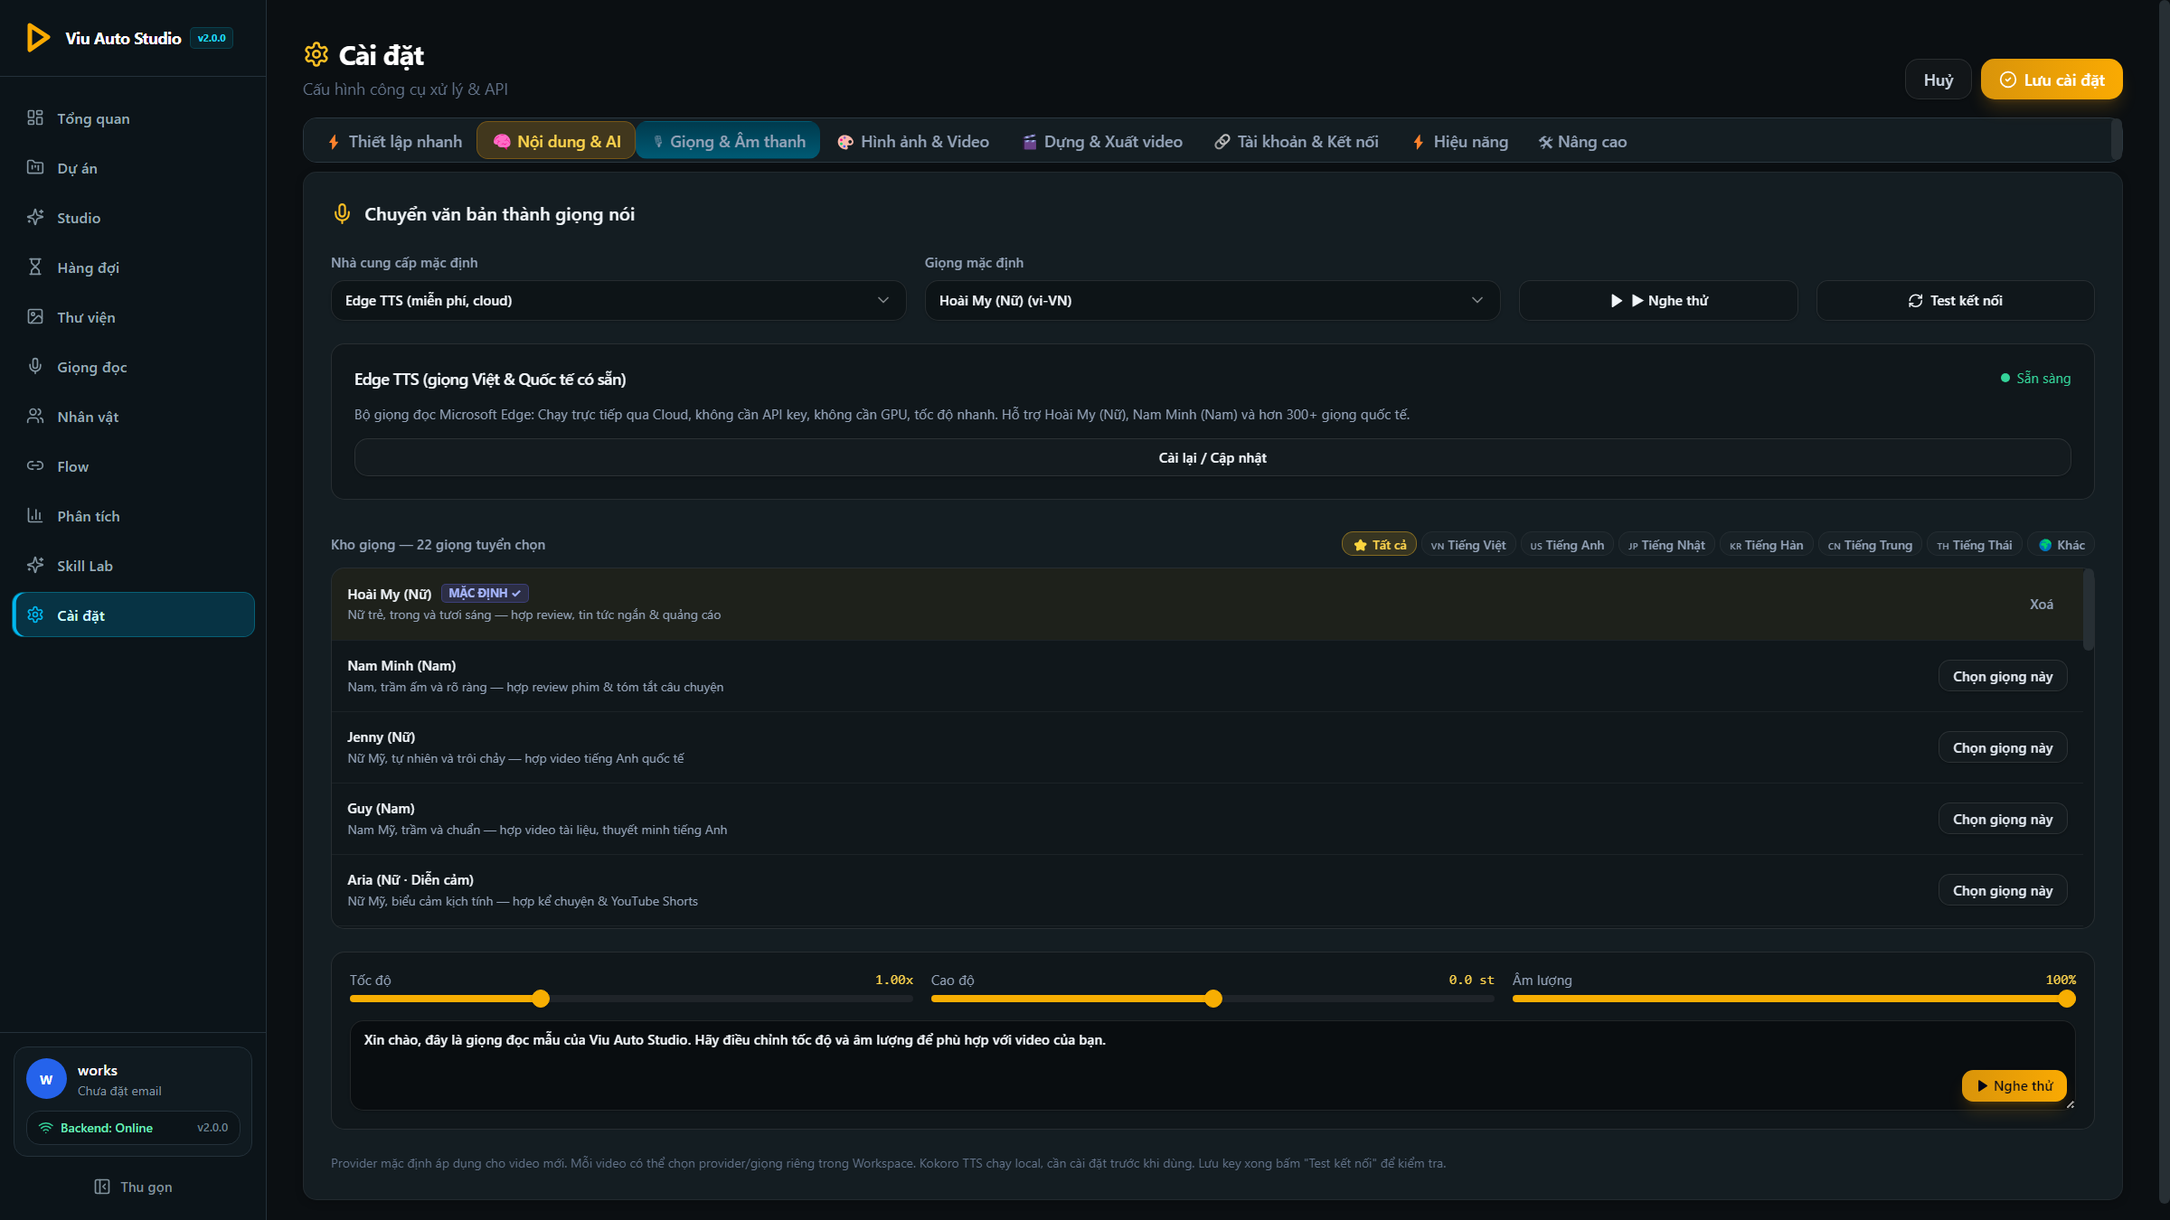
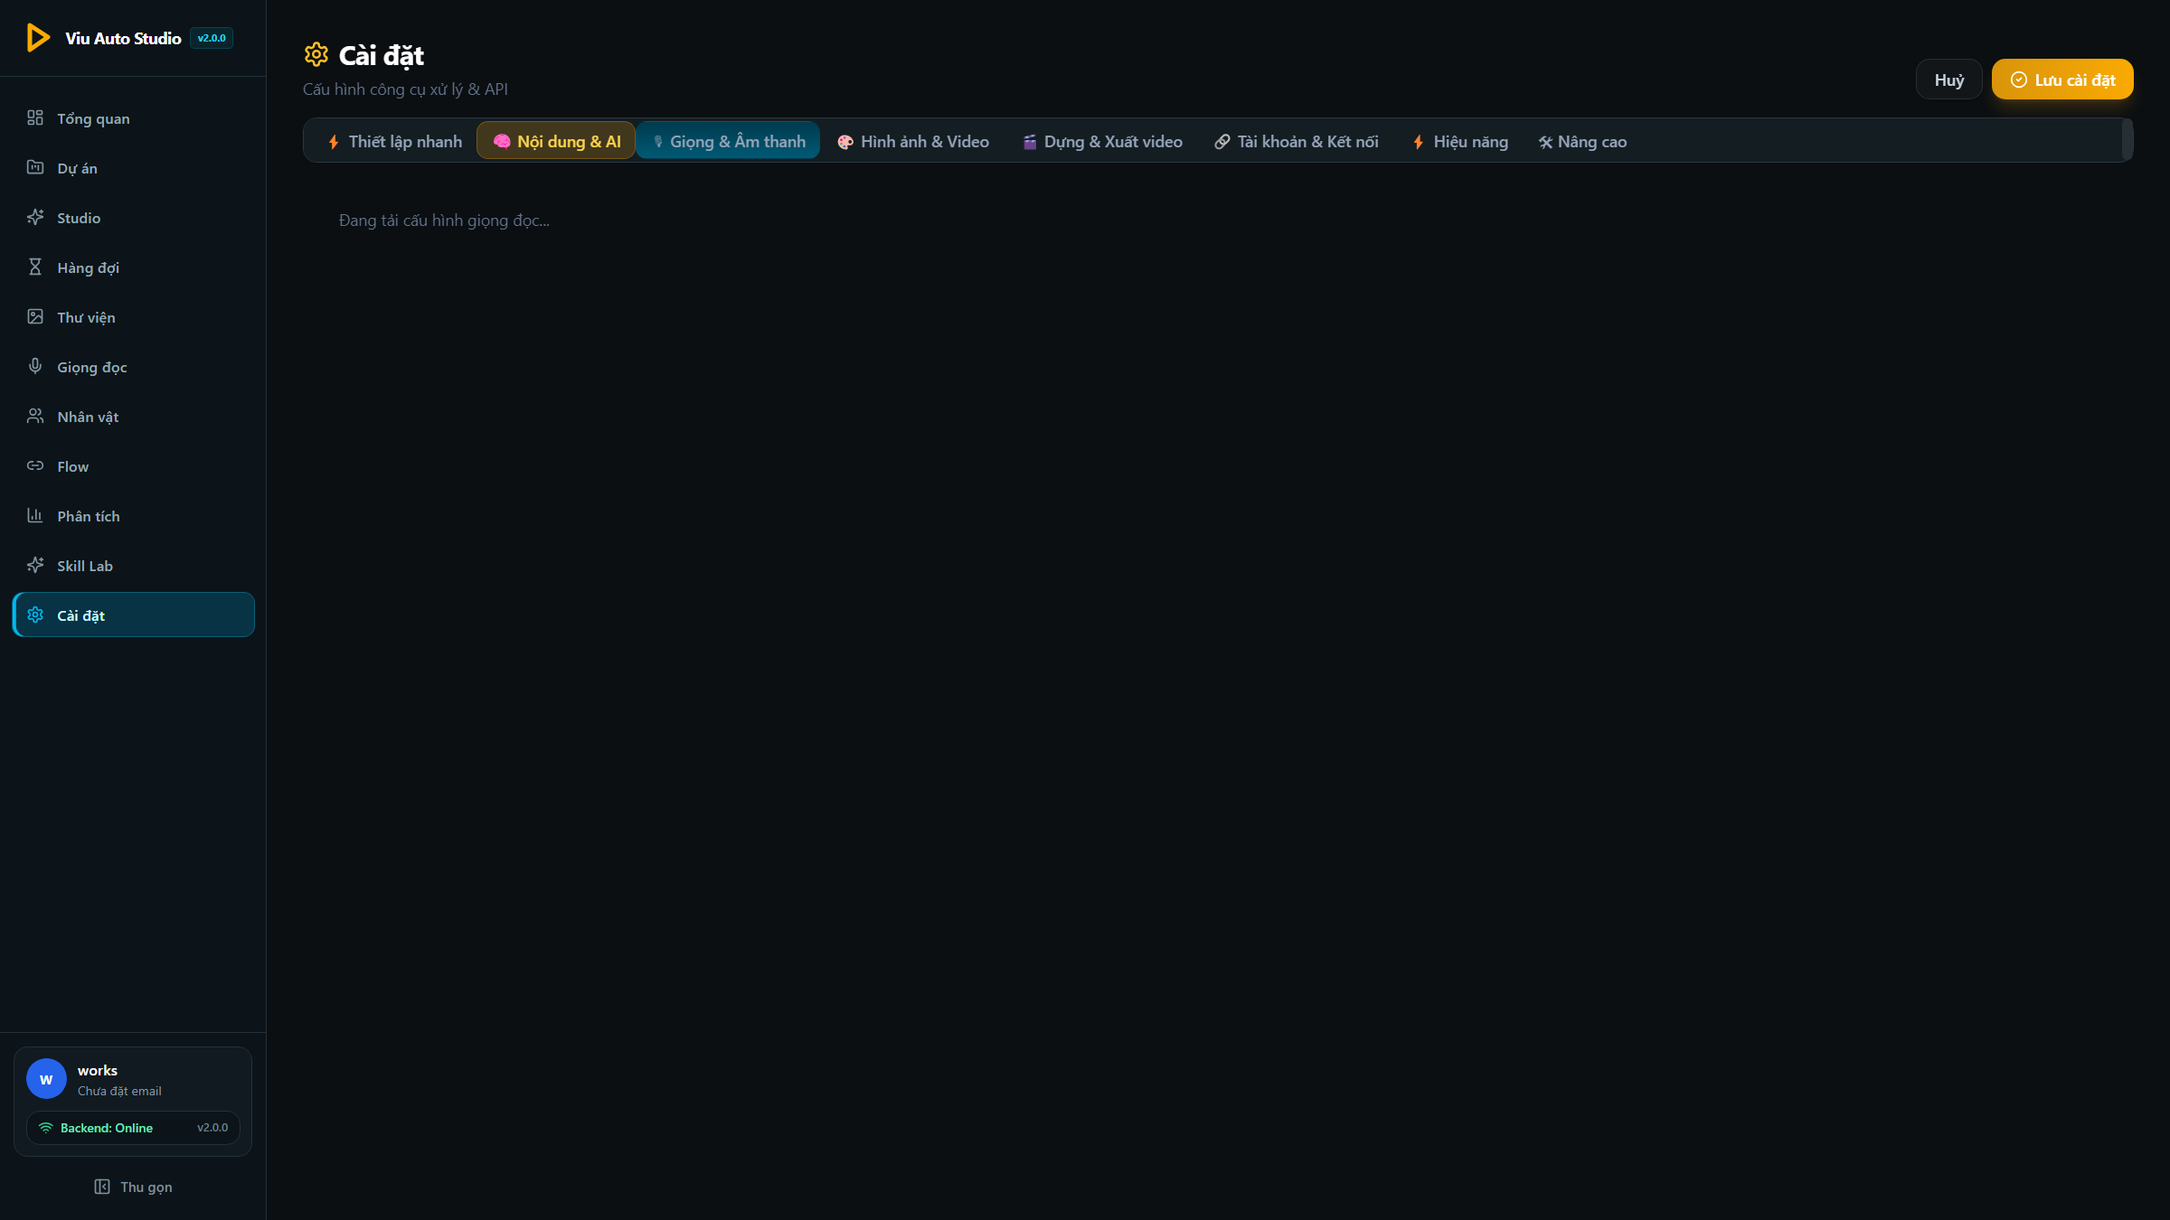
feat(ui): add interactive loading spinners and disabled states to all TTS buttons

diff --git a/viu-auto-studio/desktop/src/components/voice-studio-panel.tsx b/viu-auto-studio/desktop/src/components/voice-studio-panel.tsx
@@ -1,5 +1,5 @@
 import { useEffect, useRef, useState } from "react"
-import { Mic, Play, RefreshCw } from "lucide-react"
+import { Mic, Play, RefreshCw, Check, Loader2, Download, AlertCircle } from "lucide-react"
 import { api, mediaUrl } from "@/services/api"
 import { toast } from "@/hooks/use-toast"
 import type { TTSConfig, TTSVoice } from "@/types"
@@ -52,13 +52,20 @@ export function VoiceStudioPanel() {
   const [customText, setCustomText] = useState(SAMPLE_TEXT_VI)
   const [voiceLangFilter, setVoiceLangFilter] = useState("all")
 
+  // Interactive Loading States
+  const [switchingProvider, setSwitchingProvider] = useState(false)
+  const [refreshingEdge, setRefreshingEdge] = useState(false)
+  const [installingKokoro, setInstallingKokoro] = useState(false)
+  const [selectingVoiceId, setSelectingVoiceId] = useState<string | null>(null)
+  const [savingKey, setSavingKey] = useState(false)
+
+  // API Key inputs
   const [elevenLabsKey, setElevenLabsKey] = useState("")
   const [elevenLabsModel, setElevenLabsModel] = useState("eleven_flash_v2_5")
   const [geminiTTSKey, setGeminiTTSKey] = useState("")
   const [vbeeKey, setVbeeKey] = useState("")
   const [googleCloudKey, setGoogleCloudKey] = useState("")
   const [azureKey, setAzureKey] = useState("")
-  const [savingKey, setSavingKey] = useState(false)
 
   const audioRef = useRef<HTMLAudioElement | null>(null)
 
@@ -108,7 +115,8 @@ export function VoiceStudioPanel() {
   }
 
   const handleProviderChange = async (p: string) => {
-    if (!config) return
+    if (!config || switchingProvider) return
+    setSwitchingProvider(true)
     try {
       const vs = await api.ttsListVoices(p)
       setVoices(vs)
@@ -125,6 +133,50 @@ export function VoiceStudioPanel() {
       toast({ title: `Đã chọn: ${p}`, description: `Đã nạp ${vs.length} giọng.` })
     } catch (e) {
       toast({ title: "Lỗi chuyển nhà cung cấp", description: String(e), variant: "destructive" })
+    } finally {
+      setSwitchingProvider(false)
+    }
+  }
+
+  const handleSelectVoice = async (voiceId: string) => {
+    if (selectingVoiceId) return
+    setSelectingVoiceId(voiceId)
+    try {
+      await save({ voice: voiceId })
+      setConfig((prev) => prev ? { ...prev, voice: voiceId } : prev)
+      toast({ title: voiceId ? "Đã đặt giọng mặc định" : "Đã bỏ chọn giọng" })
+    } catch (e) {
+      toast({ title: "Lỗi chọn giọng", description: String(e), variant: "destructive" })
+    } finally {
+      setSelectingVoiceId(null)
+    }
+  }
+
+  const handleRefreshEdge = async () => {
+    setRefreshingEdge(true)
+    try {
+      const vs = await api.ttsListVoices("edge")
+      setVoices(vs)
+      toast({ title: "Đã làm mới danh sách giọng Edge TTS", description: `Đã tải ${vs.length} giọng đọc.` })
+    } catch (e) {
+      toast({ title: "Lỗi tải lại giọng Edge TTS", description: String(e), variant: "destructive" })
+    } finally {
+      setRefreshingEdge(false)
+    }
+  }
+
+  const handleInstallKokoro = async () => {
+    setInstallingKokoro(true)
+    try {
+      toast({ title: "Đang cài đặt Kokoro Việt Nam...", description: "Quá trình nạp thư viện AI đang diễn ra." })
+      await new Promise((r) => setTimeout(r, 1200))
+      const vs = await api.ttsListVoices("kokoro_vi")
+      setVoices(vs)
+      toast({ title: "Kokoro Việt Nam đã sẵn sàng!", description: `Đã nạp ${vs.length} giọng tiếng Việt offline.` })
+    } catch (e) {
+      toast({ title: "Cài đặt Kokoro thất bại", description: String(e), variant: "destructive" })
+    } finally {
+      setInstallingKokoro(false)
     }
   }
 
@@ -172,7 +224,7 @@ export function VoiceStudioPanel() {
   }
 
   const preview = async () => {
-    if (!config || !customText.trim()) return
+    if (!config || !customText.trim() || previewing) return
     setPreviewing(true)
     try {
       const res = await api.ttsPreview(customText, {
@@ -196,6 +248,7 @@ export function VoiceStudioPanel() {
   }
 
   const testConnection = async () => {
+    if (testingConn) return
     setTestingConn(true)
     try {
       const res = await api.ttsTestConnection(config ? { provider: config.provider } : undefined)
@@ -208,7 +261,12 @@ export function VoiceStudioPanel() {
   }
 
   if (loading) {
-    return <div className="p-8 text-sm text-slate-500">Đang tải cấu hình giọng đọc...</div>
+    return (
+      <div className="flex items-center justify-center p-12 text-sm text-slate-400 gap-2">
+        <Loader2 className="h-5 w-5 animate-spin text-amber-400" />
+        <span>Đang nạp cấu hình giọng đọc...</span>
+      </div>
+    )
   }
 
   const filteredVoices = voices.filter((v) => {
@@ -236,8 +294,15 @@ export function VoiceStudioPanel() {
       <div className="grid gap-4 sm:grid-cols-12 items-end">
         {/* 1. Nhà cung cấp mặc định */}
         <div className="sm:col-span-4 space-y-1.5">
-          <Label className="text-xs font-medium text-slate-400">Nhà cung cấp mặc định</Label>
-          <Select value={config?.provider || "edge"} onValueChange={handleProviderChange}>
+          <div className="flex items-center justify-between">
+            <Label className="text-xs font-medium text-slate-400">Nhà cung cấp mặc định</Label>
+            {switchingProvider && <Loader2 className="h-3 w-3 animate-spin text-amber-400" />}
+          </div>
+          <Select
+            value={config?.provider || "edge"}
+            onValueChange={handleProviderChange}
+            disabled={switchingProvider}
+          >
             <SelectTrigger className="w-full bg-black/30 border-white/10 text-xs">
               <SelectValue placeholder="Chọn nhà cung cấp" />
             </SelectTrigger>
@@ -259,7 +324,11 @@ export function VoiceStudioPanel() {
         {/* 2. Giọng mặc định */}
         <div className="sm:col-span-4 space-y-1.5">
           <Label className="text-xs font-medium text-slate-400">Giọng mặc định</Label>
-          <Select value={config?.voice} onValueChange={(v) => void save({ voice: v })}>
+          <Select
+            value={config?.voice}
+            onValueChange={(v) => handleSelectVoice(v)}
+            disabled={switchingProvider || selectingVoiceId !== null}
+          >
             <SelectTrigger className="w-full bg-black/30 border-white/10 text-xs">
               <SelectValue placeholder={voices.length === 0 ? (config?.provider === "elevenlabs" && !config?.api_keys?.elevenlabs ? "Lỗi tải giọng — kiểm tra API key" : "— Chọn giọng —") : "— Chọn giọng —"} />
             </SelectTrigger>
@@ -292,10 +361,10 @@ export function VoiceStudioPanel() {
             variant="outline"
             size="sm"
             className="w-full h-9 gap-1.5 text-xs border-white/10 bg-black/20 hover:bg-white/5"
-            disabled={previewing}
+            disabled={previewing || switchingProvider}
             onClick={preview}
           >
-            {previewing ? <RefreshCw className="h-3.5 w-3.5 animate-spin" /> : <Play className="h-3.5 w-3.5 fill-current" />}
+            {previewing ? <Loader2 className="h-3.5 w-3.5 animate-spin text-amber-400" /> : <Play className="h-3.5 w-3.5 fill-current" />}
             {previewing ? "Đang tạo..." : "▶ Nghe thử"}
           </Button>
         </div>
@@ -306,7 +375,7 @@ export function VoiceStudioPanel() {
             variant="outline"
             size="sm"
             className="w-full h-9 gap-1.5 text-xs border-white/10 bg-black/20 hover:bg-white/5"
-            disabled={testingConn}
+            disabled={testingConn || switchingProvider}
             onClick={testConnection}
           >
             <RefreshCw className={cn("h-3.5 w-3.5", testingConn && "animate-spin")} />
@@ -335,8 +404,8 @@ export function VoiceStudioPanel() {
                 disabled={savingKey}
                 onClick={() => handleSaveApiKey("elevenlabs", elevenLabsKey || config?.api_keys?.elevenlabs || "")}
               >
-                {savingKey ? <RefreshCw className="h-3 w-3 animate-spin mr-1" /> : null}
-                Lưu key & tải giọng
+                {savingKey ? <Loader2 className="h-3 w-3 animate-spin mr-1 text-amber-400" /> : null}
+                {savingKey ? "Đang lưu & tải..." : "Lưu key & tải giọng"}
               </Button>
             </div>
             <p className="text-[11px] text-slate-400">
@@ -382,9 +451,11 @@ export function VoiceStudioPanel() {
           </p>
           <Button
             className="w-full bg-[#5b52e0] hover:bg-[#4d44cb] text-white font-medium text-xs py-2.5 h-auto shadow-md"
-            onClick={() => toast({ title: "Đang tải và chuẩn bị Kokoro Việt Nam...", description: "Quá trình tải thư viện AI đang diễn ra ngầm." })}
+            disabled={installingKokoro}
+            onClick={handleInstallKokoro}
           >
-            Tải & Cài đặt Kokoro Việt Nam
+            {installingKokoro ? <Loader2 className="h-4 w-4 animate-spin mr-2" /> : <Download className="h-4 w-4 mr-2" />}
+            {installingKokoro ? "Đang tải & cài đặt Kokoro..." : "Tải & Cài đặt Kokoro Việt Nam"}
           </Button>
         </div>
       )}
@@ -408,8 +479,8 @@ export function VoiceStudioPanel() {
                 disabled={savingKey}
                 onClick={() => handleSaveApiKey("gemini_tts", geminiTTSKey || "")}
               >
-                {savingKey ? <RefreshCw className="h-3 w-3 animate-spin mr-1" /> : null}
-                Lưu key & tải giọng
+                {savingKey ? <Loader2 className="h-3 w-3 animate-spin mr-1 text-amber-400" /> : null}
+                {savingKey ? "Đang lưu..." : "Lưu key & tải giọng"}
               </Button>
             </div>
             <p className="text-[11px] text-slate-400">
@@ -438,8 +509,8 @@ export function VoiceStudioPanel() {
                 disabled={savingKey}
                 onClick={() => handleSaveApiKey("vbee", vbeeKey || config?.api_keys?.vbee || "")}
               >
-                {savingKey ? <RefreshCw className="h-3 w-3 animate-spin mr-1" /> : null}
-                Lưu key & tải giọng
+                {savingKey ? <Loader2 className="h-3 w-3 animate-spin mr-1 text-amber-400" /> : null}
+                {savingKey ? "Đang lưu..." : "Lưu key & tải giọng"}
               </Button>
             </div>
             <p className="text-[11px] text-slate-400">
@@ -464,12 +535,11 @@ export function VoiceStudioPanel() {
           <Button
             variant="outline"
             className="w-full border-white/10 bg-white/[0.02] hover:bg-white/5 text-xs py-2 h-auto"
-            onClick={() => {
-              api.ttsListVoices("edge").then(setVoices).catch(() => {})
-              toast({ title: "Đã làm mới danh sách giọng Edge TTS" })
-            }}
+            disabled={refreshingEdge}
+            onClick={handleRefreshEdge}
           >
-            Cài lại / Cập nhật
+            <RefreshCw className={cn("h-3.5 w-3.5 mr-2", refreshingEdge && "animate-spin text-amber-400")} />
+            {refreshingEdge ? "Đang làm mới danh sách..." : "Cài lại / Cập nhật"}
           </Button>
         </div>
       )}
@@ -495,8 +565,8 @@ export function VoiceStudioPanel() {
                 disabled={savingKey}
                 onClick={() => handleSaveApiKey(config.provider, config.provider === "google_cloud_tts" ? googleCloudKey : azureKey)}
               >
-                {savingKey ? <RefreshCw className="h-3 w-3 animate-spin mr-1" /> : null}
-                Lưu key & tải giọng
+                {savingKey ? <Loader2 className="h-3 w-3 animate-spin mr-1 text-amber-400" /> : null}
+                {savingKey ? "Đang lưu..." : "Lưu key & tải giọng"}
               </Button>
             </div>
             <p className="text-[11px] text-slate-400">
@@ -544,6 +614,7 @@ export function VoiceStudioPanel() {
           ) : (
             filteredVoices.map((v) => {
               const isSelected = config?.voice === v.id
+              const isCurrentSelecting = selectingVoiceId === v.id
               const badge = getCountryBadge(v.language, v.id)
               return (
                 <div
@@ -576,8 +647,10 @@ export function VoiceStudioPanel() {
                         variant="ghost"
                         size="sm"
                         className="h-7 text-xs text-slate-400 hover:text-red-400 hover:bg-transparent"
-                        onClick={() => void save({ voice: "" })}
+                        disabled={isCurrentSelecting}
+                        onClick={() => handleSelectVoice("")}
                       >
+                        {isCurrentSelecting ? <Loader2 className="h-3 w-3 animate-spin mr-1" /> : null}
                         Xoá
                       </Button>
                     ) : (
@@ -585,9 +658,11 @@ export function VoiceStudioPanel() {
                         variant="outline"
                         size="sm"
                         className="h-7 text-xs border-white/10 bg-white/[0.02] hover:bg-white/10 text-slate-200"
-                        onClick={() => void save({ voice: v.id })}
+                        disabled={isCurrentSelecting}
+                        onClick={() => handleSelectVoice(v.id)}
                       >
-                        Chọn giọng này
+                        {isCurrentSelecting ? <Loader2 className="h-3 w-3 animate-spin mr-1 text-amber-400" /> : null}
+                        {isCurrentSelecting ? "Đang chọn..." : "Chọn giọng này"}
                       </Button>
                     )}
                   </div>
@@ -639,8 +714,8 @@ export function VoiceStudioPanel() {
             disabled={previewing}
             onClick={preview}
           >
-            {previewing ? <RefreshCw className="h-3 w-3 animate-spin" /> : <Play className="h-3 w-3 fill-current" />}
-            {previewing ? "Tạo..." : "Nghe thử"}
+            {previewing ? <Loader2 className="h-3 w-3 animate-spin mr-1" /> : <Play className="h-3 w-3 fill-current mr-1" />}
+            {previewing ? "Đang tạo..." : "Nghe thử"}
           </Button>
         </div>
 

diff --git a/viu-auto-studio/desktop/electron/main.ts b/viu-auto-studio/desktop/electron/main.ts
@@ -334,13 +334,13 @@ function createWindow(): void {
             if (!(state.selected === "true" || state.selected === "active") || !state.bodyHasLabel) throw new Error(`Tab Settings không active: ${label}; state=${JSON.stringify(state)}`)
           }
           console.log('[SettingsSmoke] tabs-ok')
-          await mainWindow.webContents.executeJavaScript(`(() => { const target = [...document.querySelectorAll('button')].find((node) => (node.textContent || '').includes('Dựng & Xuất video')); if (!target) throw new Error('Không tìm thấy tab Dựng & Xuất video'); target.click(); return true })()`)
+          await mainWindow.webContents.executeJavaScript(`(() => { const target = [...document.querySelectorAll('button')].find((node) => (node.textContent || '').includes('Dựng & Xuất video')); if (!target) throw new Error('Không tìm thấy tab Dựng & Xuất video'); target.focus(); target.dispatchEvent(new MouseEvent('mousedown', { bubbles: true, cancelable: true, button: 0, buttons: 1 })); target.dispatchEvent(new MouseEvent('mouseup', { bubbles: true, cancelable: true, button: 0 })); target.dispatchEvent(new MouseEvent('click', { bubbles: true, cancelable: true, button: 0 })); return true })()`)
           console.log('[SettingsSmoke] edit-clicked')
           await waitSettings(500)
           console.log('[SettingsSmoke] edit-ready')
-          const originalPreset = await mainWindow.webContents.executeJavaScript(`(() => [...document.querySelectorAll('button[aria-pressed="true"]')].find((node) => ['YouTube ngang','Shorts / TikTok','Video vuông','Chất lượng cao'].some((label) => (node.textContent || '').includes(label)))?.textContent || 'YouTube ngang')`)
+          const originalPreset = String(await mainWindow.webContents.executeJavaScript(`(() => { const labels = ['YouTube ngang','Shorts / TikTok','Video vuông','Chất lượng cao']; const text = Array.from(document.querySelectorAll('button[aria-pressed="true"]')).map((node) => String(node.textContent || '')).find((value) => labels.some((label) => value.includes(label))); return String(text || 'YouTube ngang'); })()`))
           console.log('[SettingsSmoke] preset-read')
-          const originalSubtitle = await mainWindow.webContents.executeJavaScript(`(() => [...document.querySelectorAll('button[aria-pressed="true"]')].find((node) => ['Nổi bật','Cơ bản','Karaoke'].some((label) => (node.textContent || '').includes(label)))?.textContent || 'Nổi bật')`)
+          const originalSubtitle = String(await mainWindow.webContents.executeJavaScript(`(() => { const labels = ['Nổi bật','Cơ bản','Karaoke']; const text = Array.from(document.querySelectorAll('button[aria-pressed="true"]')).map((node) => String(node.textContent || '')).find((value) => labels.some((label) => value.includes(label))); return String(text || 'Nổi bật'); })()`))
           console.log('[SettingsSmoke] subtitle-read')
           await mainWindow.webContents.executeJavaScript(`(() => { const target = [...document.querySelectorAll('button')].find((node) => (node.textContent || '').includes('Shorts / TikTok')); if (!target) throw new Error('Không tìm thấy Output Preset Shorts'); target.click(); const subtitle = [...document.querySelectorAll('button')].find((node) => (node.textContent || '').includes('Karaoke')); if (!subtitle) throw new Error('Không tìm thấy Subtitle Karaoke'); subtitle.click(); return true })()`)
           await waitSettings(250)
